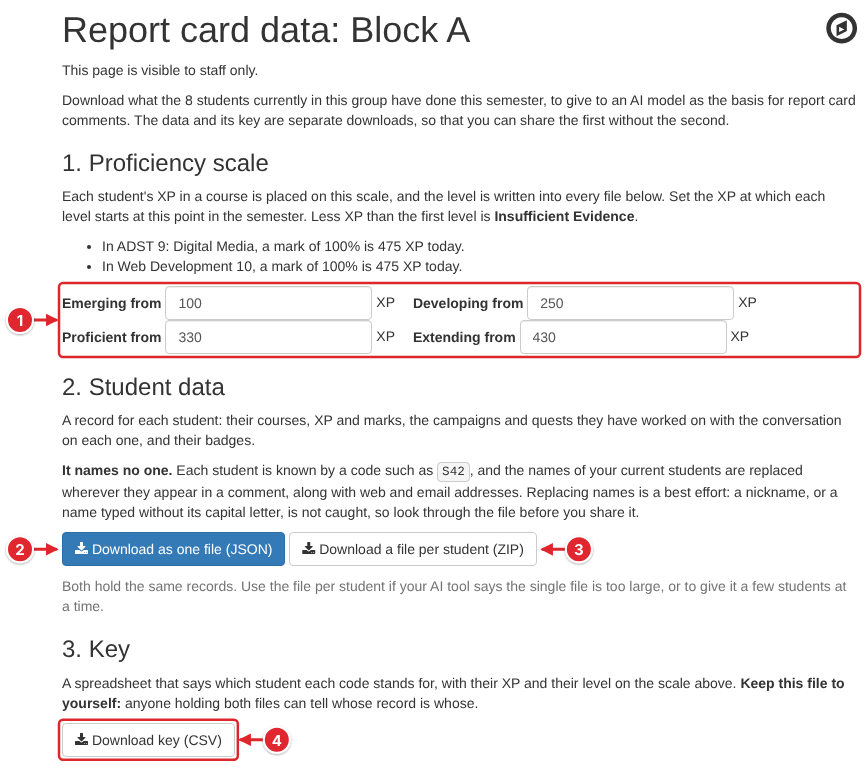
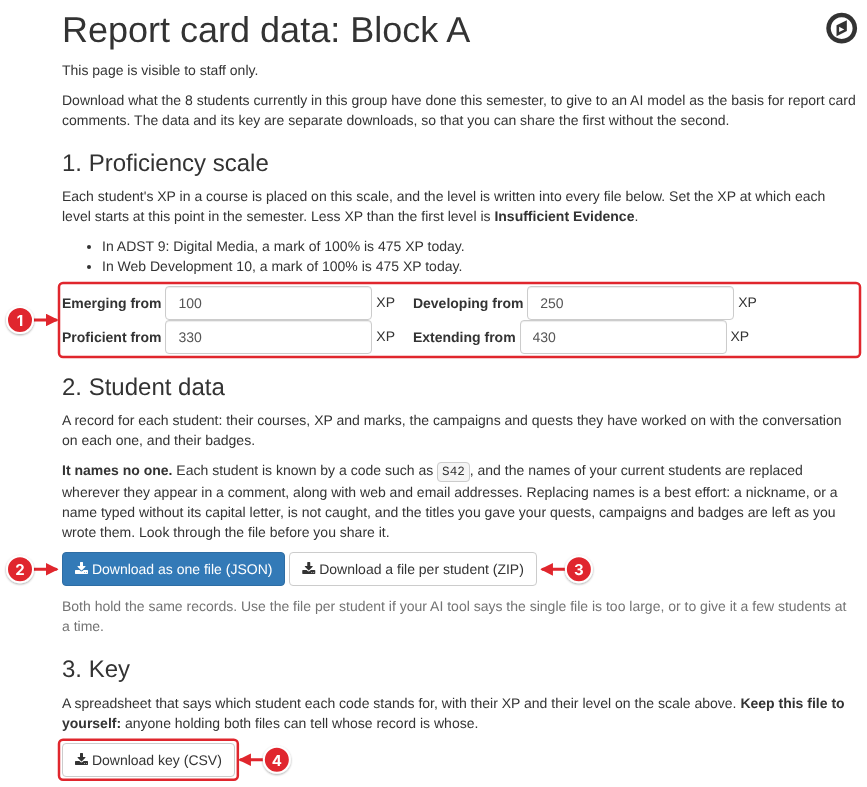
fix: find usernames joined to other words, scrub descriptions, and keep each level in step with the XP shown
From review: a username in a file's name (wbrown.pdf) got through; badge
and campaign descriptions were not scrubbed (titles still are not, and the
page and guide now say so); a share of 99.5 XP was shown as 100 beside the
level below it; and the key's other text cells had no formula guard.

Claude-Session: https://claude.ai/code/session_01MUD3fcucZPHRe4W9Fs8m6n

diff --git a/src/courses/templates/courses/report_card_data.html b/src/courses/templates/courses/report_card_data.html
@@ -51,7 +51,8 @@
     <strong>It names no one.</strong> Each {{ config.custom_name_for_student|lower }} is known by a code such as
     <code>S42</code>, and the names of your current {{ config.custom_name_for_student|lower }}s are replaced
     wherever they appear in a comment, along with web and email addresses. Replacing names is a best effort: a
-    nickname, or a name typed without its capital letter, is not caught, so look through the file before you share it.
+    nickname, or a name typed without its capital letter, is not caught, and the titles you gave your quests,
+    campaigns and badges are left as you wrote them. Look through the file before you share it.
   </p>
   <p>
     <button type="submit" class="btn btn-primary" formaction="{% url 'courses:report_card_data_file' object.pk %}">

diff --git a/src/courses/report_cards.py b/src/courses/report_cards.py
@@ -69,6 +69,8 @@ DEFAULT_PROFICIENCY_XP = {
 _WORD_RE = re.compile(r"[^\W_]+")
 #: A run of the characters a username can hold (letters, digits and @ . + - _).
 _HANDLE_RE = re.compile(r"[\w.@+-]+")
+#: The punctuation among them, which also joins a username to what is beside it ("jsmith.pdf").
+_HANDLE_PUNCTUATION_RE = re.compile(r"([.@+-]+)")
 _URL_RE = re.compile(r"(?:https?://|www\.)\S+", re.IGNORECASE)
 _EMAIL_RE = re.compile(r"\S+@\S+\.\S+")
 
@@ -150,7 +152,10 @@ class NameScrubber:
     a letter or two. Web and email addresses are replaced whole, since they often carry a name.
 
     It is a best effort: a nickname, a misspelling, or a name typed without its capital is not
-    caught.
+    caught. What it is used on is what people typed at length: comments, answers, descriptions and
+    notes. The names teachers gave their quests, campaigns, badges, courses and groups go into the
+    file as written, since a title's words are all capitalized and so many of them would be taken
+    for names.
     """
 
     def __init__(self, students):
@@ -196,14 +201,24 @@ class NameScrubber:
             return STUDENT_PLACEHOLDER if student_id in owners else PEER_PLACEHOLDER
 
         def replace_username(match):
-            """The run of characters with the username in it replaced, when it is a student's
-            username with at most some punctuation around it (a full stop after it, an @ before)."""
-            run = match.group()
-            username = run.strip(".@+-")
-            owner = self._usernames.get(username.lower())
-            if owner is None:
-                return run
-            return run.replace(username, STUDENT_PLACEHOLDER if owner == student_id else PEER_PLACEHOLDER, 1)
+            """The run of characters with each student's username in it replaced, whatever it is
+            joined to: a full stop after it, an @ before it, a file's extension ("jsmith.pdf")."""
+            # the words of the run and the punctuation between them, in turn
+            parts = _HANDLE_PUNCTUATION_RE.split(match.group())
+            replaced = []
+            start = 0
+            while start < len(parts):
+                # the longest stretch from here that is a username, since one can hold punctuation itself
+                for end in range(len(parts), start, -1):
+                    owner = self._usernames.get("".join(parts[start:end]).lower())
+                    if owner is not None:
+                        replaced.append(STUDENT_PLACEHOLDER if owner == student_id else PEER_PLACEHOLDER)
+                        start = end
+                        break
+                else:
+                    replaced.append(parts[start])
+                    start += 1
+            return "".join(replaced)
 
         text = _URL_RE.sub(LINK_PLACEHOLDER, text)
         text = _EMAIL_RE.sub(EMAIL_PLACEHOLDER, text)
@@ -379,14 +394,16 @@ def student_key_csv(block, scale=None):
     for profile, registrations in group_roster(block):
         user = profile.user
         shares = CourseStudent.objects.xp_across(user, registrations, profile=profile)
-        # the names are the student's own to choose, so they are the cells to make safe
-        names = (user.last_name, user.first_name, profile.preferred_name, user.username)
-        writer.writerow((
-            student_code(user.pk), *(_csv_cell(name) for name in names),
-            _grade(registrations, block),
+        text_cells = (
+            user.last_name, user.first_name, profile.preferred_name, user.username, _grade(registrations, block),
             "; ".join(str(registration.course or "") for registration, _xp in shares),
+        )
+        writer.writerow((
+            student_code(user.pk), *(_csv_cell(cell) for cell in text_cells),
+            # left as the numbers they are: XP below zero starts with a minus sign
             "; ".join(str(round(xp)) for _registration, xp in shares),
-            "; ".join(proficiency_level(xp, scale) for _registration, xp in shares),
+            # from the XP as it is shown, so the two columns always agree
+            _csv_cell("; ".join(proficiency_level(round(xp), scale) for _registration, xp in shares)),
         ))
     return output.getvalue()
 
@@ -567,7 +584,7 @@ def _campaign_entries(submissions):
     ]
 
 
-def _badge_entries(assertions, deck_ai_id, badges_with_prerequisites):
+def _badge_entries(assertions, deck_ai_id, badges_with_prerequisites, scrubber, student_id):
     """The badges a student has been granted, each listed once however often it was granted.
 
     A badge counts as granted automatically when it has prerequisites to meet and came from the
@@ -580,6 +597,8 @@ def _badge_entries(assertions, deck_ai_id, badges_with_prerequisites):
         deck_ai_id (int or None): the User pk of the deck's own account, which grants the badges
             that come from meeting their prerequisites.
         badges_with_prerequisites (set): the pks of the badges that have prerequisites.
+        scrubber (NameScrubber): replaces names in a badge's description.
+        student_id (int): the student's User pk.
 
     Returns:
         list[dict]: an entry per badge, with every day it was granted.
@@ -591,7 +610,7 @@ def _badge_entries(assertions, deck_ai_id, badges_with_prerequisites):
         entry = badges.setdefault((badge.pk, automatic), {
             "badge": badge.name,
             "type": badge.badge_type.name,
-            "description": html_to_text(badge.short_description),
+            "description": scrubber.clean(badge.short_description, student_id),
             "xp_each": badge.xp,
             "granted_by": "automatic" if automatic else "teacher",
             "granted_on": [],
@@ -644,7 +663,8 @@ def _course_entries(profile, registrations, scrubber, scale):
             "group": str(registration.block) if registration.block else None,
             "semester": str(registration.semester),
             "xp": round(xp),
-            "proficiency_level": proficiency_level(xp, scale),
+            # from the XP as it is shown, so the two always agree
+            "proficiency_level": proficiency_level(round(xp), scale),
             "mark_percent": None if mark is None else round(mark, 1),
             "mark_range": mark_range.name if mark_range else None,
             "xp_per_class_day": round(registration.xp_per_day_ave(xp), 1),
@@ -654,7 +674,7 @@ def _course_entries(profile, registrations, scrubber, scale):
     return entries
 
 
-def _about(block, roster, campaign_ids, scale):
+def _about(block, roster, campaign_ids, scale, scrubber):
     """What the data file says about itself and about the deck, ahead of the students.
 
     Args:
@@ -662,6 +682,8 @@ def _about(block, roster, campaign_ids, scale):
         roster (list[tuple]): the group's students (see group_roster).
         campaign_ids (set): the pks of the campaigns those students have worked in.
         scale (list[tuple]): the proficiency scale the students were placed on (see proficiency_scale).
+        scrubber (NameScrubber): replaces names in a campaign's description, every student's with
+            PEER_PLACEHOLDER since this part of the file belongs to none of them.
 
     Returns:
         dict: the file's purpose and how to read it, then the semester, courses, proficiency scale,
@@ -706,7 +728,7 @@ def _about(block, roster, campaign_ids, scale):
         "campaigns": [
             _compact({
                 "campaign": campaign.title,
-                "description": campaign.short_description,
+                "description": scrubber.clean(campaign.short_description, None),
                 "quests": offered.get(campaign.pk, {}).get('quests', 0),
                 "xp_available": offered.get(campaign.pk, {}).get('xp', 0),
             })
@@ -794,11 +816,11 @@ def report_card_data(block, scale=None):
             "work_summary": _work_summary(mine),
             "campaigns": _campaign_entries(mine),
             "xp_by_tag": _xp_by_tag(mine, assertions[profile.user_id]),
-            "badges": _badge_entries(assertions[profile.user_id], deck_ai_id, badges_with_prerequisites),
+            "badges": _badge_entries(assertions[profile.user_id], deck_ai_id, badges_with_prerequisites, scrubber, profile.user_id),
             "quests": _quest_entries(mine, comments, profile.user_id, scrubber),
         }))
 
-    return {"about": _about(block, roster, campaign_ids, scale), "students": students}
+    return {"about": _about(block, roster, campaign_ids, scale, scrubber), "students": students}
 
 
 def to_json(data):

diff --git a/src/courses/tests/test_report_cards.py b/src/courses/tests/test_report_cards.py
@@ -77,6 +77,12 @@ class NameScrubberTests(ByteDeckTenantTestCase):
         text = self.scrubber.scrub("my login is jsmith24. Ask wbrown, @WBrown or dana.reyes7!", 1)
         self.assertEqual(text, f"my login is {STUDENT_PLACEHOLDER}. Ask {PEER_PLACEHOLDER}, @{PEER_PLACEHOLDER} or {PEER_PLACEHOLDER}!")
 
+    def test_scrub__username_joined_to_something_else(self):
+        """A username is replaced where it is joined to other words by the punctuation a username
+        can hold, such as in a file's name, and one that holds punctuation itself is found whole."""
+        text = self.scrubber.scrub("see wbrown.pdf, final-jsmith24.v2 and dana.reyes7.zip but not brown.pdf", 1)
+        self.assertEqual(text, f"see {PEER_PLACEHOLDER}.pdf, final-{STUDENT_PLACEHOLDER}.v2 and {PEER_PLACEHOLDER}.zip but not brown.pdf")
+
     def test_scrub__username_that_is_only_a_name_follows_the_rule_for_names(self):
         """A username that is nothing more than a student's name is only replaced where it is
         capitalized, so the ordinary word it also is survives."""
@@ -255,6 +261,15 @@ class ReportCardDataTests(ByteDeckTenantTestCase):
             rows = list(csv.reader(io.StringIO(student_key_csv(self.block, scale))))
         self.assertEqual(rows[2][-1], 'Emerging')
 
+    def test_student_key_csv__level_agrees_with_the_xp_shown(self):
+        """A share of XP that is shown rounded up to where a level starts is at that level, in the
+        key and in the data, so nobody reads 100 XP beside the level below it."""
+        with patch_registration_xp(99.5):
+            rows = list(csv.reader(io.StringIO(student_key_csv(self.block))))
+            course = report_card_data(self.block)["students"][1]["courses"][0]
+        self.assertEqual(rows[2][-2:], ['100', 'Emerging'])
+        self.assertEqual((course["xp"], course["proficiency_level"]), (100, 'Emerging'))
+
     def test_student_key_csv__registration_without_a_course(self):
         """A registration whose course is gone adds nothing to the student's courses."""
         CourseStudent.objects.filter(pk=self.will_registration.pk).update(course=None)
@@ -262,19 +277,21 @@ class ReportCardDataTests(ByteDeckTenantTestCase):
         self.assertEqual(rows[2][6], '')
 
     def test_student_key_csv__name_that_reads_as_a_formula(self):
-        """A name a spreadsheet would run as a formula is made safe, while a student's XP below
-        zero is left as the number it is."""
+        """Text a spreadsheet would run as a formula is made safe, whether a student's name or a
+        course's title, while a student's XP below zero is left as the number it is."""
         self.will.first_name = '=HYPERLINK("http://example.com")'
         self.will.save()
+        Course.objects.filter(pk=self.course.pk).update(title='+ADST')
         with patch_registration_xp(-10):
             rows = list(csv.reader(io.StringIO(student_key_csv(self.block))))
         self.assertEqual(rows[2][2], '\'=HYPERLINK("http://example.com")')
+        self.assertEqual(rows[2][6], "'+ADST")
         self.assertEqual(rows[2][7], '-10')
 
     def test_report_card_data__about(self):
         """The file starts by saying what it is, how to read it, and what the deck's semester,
         courses, ranks, mark ranges and campaigns are."""
-        campaign = baker.make(Category, title='Web Design', short_description='Build a site')
+        campaign = baker.make(Category, title='Web Design', short_description='Build a site like Jamie did')
         baker.make(Quest, name='HTML Basics', campaign=campaign, xp=30)
         self._submission(baker.make(Quest, name='CSS Basics', campaign=campaign, xp=20))
         baker.make(Quest, name='Old one', campaign=campaign, xp=500, archived=True)
@@ -303,7 +320,10 @@ class ReportCardDataTests(ByteDeckTenantTestCase):
         self.assertEqual(about["ranks"], [{"rank": rank.name, "from_xp": rank.xp} for rank in Rank.objects.get_ranks_cached()])
         self.assertIn({"mark_range": 'Passing', "from_percent": 49.5}, about["mark_ranges"])
         # only the campaign a student in the file has worked in, counting only its published, unarchived quests
-        self.assertEqual(about["campaigns"], [{"campaign": 'Web Design', "description": 'Build a site', "quests": 2, "xp_available": 50}])
+        # a student named in its description is nobody's own name here, so a peer
+        self.assertEqual(about["campaigns"], [
+            {"campaign": 'Web Design', "description": f'Build a site like {PEER_PLACEHOLDER} did', "quests": 2, "xp_available": 50},
+        ])
 
     def test_report_card_data__student_standing(self):
         """A student's record gives their grade, XP and rank, and for each course its share of
@@ -486,7 +506,7 @@ class ReportCardDataTests(ByteDeckTenantTestCase):
     def test_report_card_data__badges(self):
         """A student's badges from this semester are listed once each with every day they were
         granted, saying whether a teacher chose to grant them, and their XP counts toward their tags."""
-        talent = baker.make(Badge, name='Coder', xp=5, short_description='<p>Wrote some code</p>',
+        talent = baker.make(Badge, name='Coder', xp=5, short_description='<p>Wrote some code with Will</p>',
                             badge_type=BadgeType.objects.get_or_create(name='Talent')[0])
         talent.tags.add('code')
         talent.add_simple_prereqs([baker.make(Quest)])
@@ -509,7 +529,7 @@ class ReportCardDataTests(ByteDeckTenantTestCase):
 
         today = timezone.localdate().isoformat()
         self.assertEqual(jamie["badges"], [
-            {"badge": 'Coder', "type": 'Talent', "description": 'Wrote some code', "xp_each": 5, "granted_by": 'automatic',
+            {"badge": 'Coder', "type": 'Talent', "description": f'Wrote some code with {PEER_PLACEHOLDER}', "xp_each": 5, "granted_by": 'automatic',
              "granted_on": ['2026-10-01', today]},
             {"badge": 'Helper', "type": 'Award', "xp_each": 10, "granted_by": 'teacher', "granted_on": [today]},
             {"badge": 'Kind', "type": 'Award', "xp_each": 0, "granted_by": 'teacher', "granted_on": [today]},

diff --git a/src/courses/forms.py b/src/courses/forms.py
@@ -511,6 +511,9 @@ class ProficiencyScaleForm(forms.Form):
     def clean(self):
         """Checks that the levels are in order.
 
+        Returns:
+            dict: the form's cleaned data, unchanged.
+
         Raises:
             ValidationError: if a level starts at no more XP than the level before it.
         """

diff --git a/docs/your-deck/report-card-data.md b/docs/your-deck/report-card-data.md
@@ -86,8 +86,10 @@ Students' names also turn up in what people write ("Great work, Jamie!"), so the
 
 The names replaced are the first name, last name, preferred name and username of every student currently registered in a course on your deck. A word is only replaced when it starts with a capital letter or contains a digit, so that "I will fix it" survives a student named Will. A username of three or more characters is replaced however it is typed, unless it is simply one of the student's names.
 
+This is done to what people typed at length: comments, answers, the explanation of an XP adjustment, and the descriptions of badges and campaigns. The titles you gave your quests, campaigns, badges, courses and groups go into the file exactly as you wrote them, so a quest called "Jamie's Project" would name a student.
+
 !!! warning "Look through the file before you share it"
-    Replacing names is a best effort. A nickname, a misspelled name, or a name typed without its capital letter is not caught. Search the file for a few of your students' names before you give it to anyone, and only use an AI tool your school or district allows for student work.
+    Replacing names is a best effort. A nickname, a misspelled name, or a name typed without its capital letter is not caught, and titles are not changed at all. Search the file for a few of your students' names before you give it to anyone, and only use an AI tool your school or district allows for student work.
 
 ## Drafting comments with it
 
